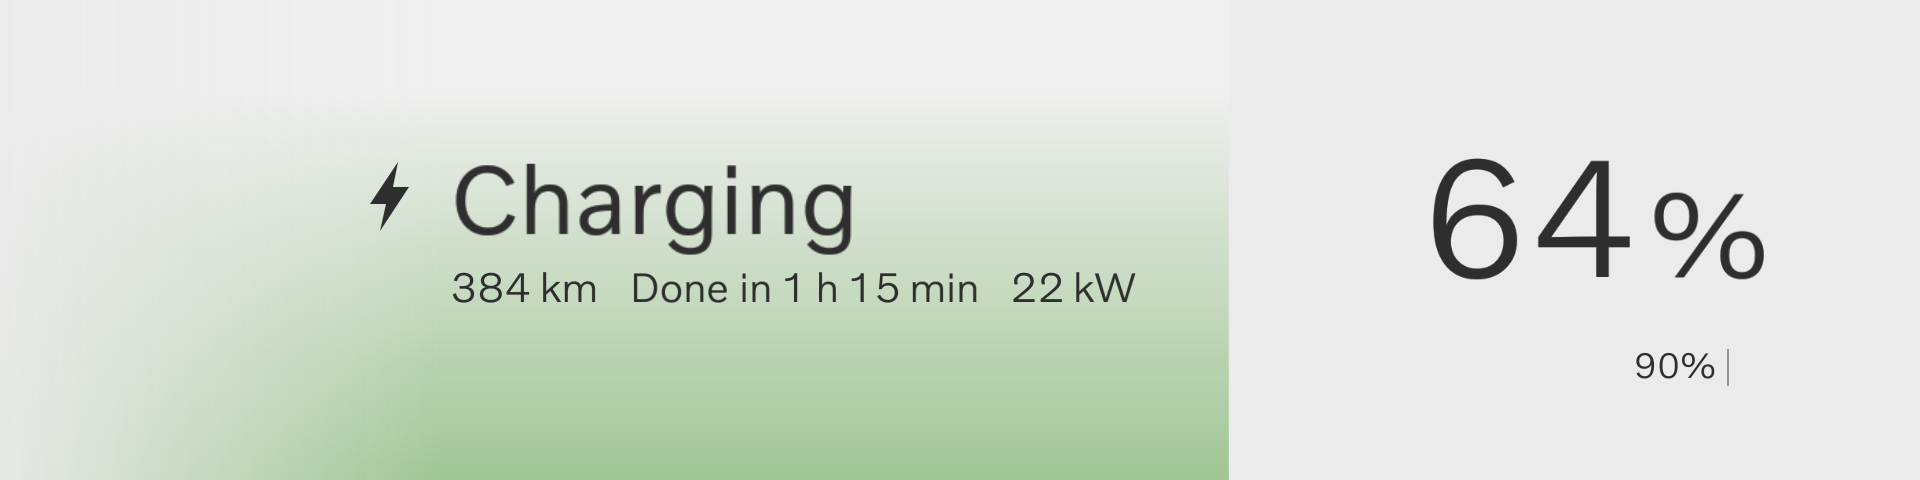
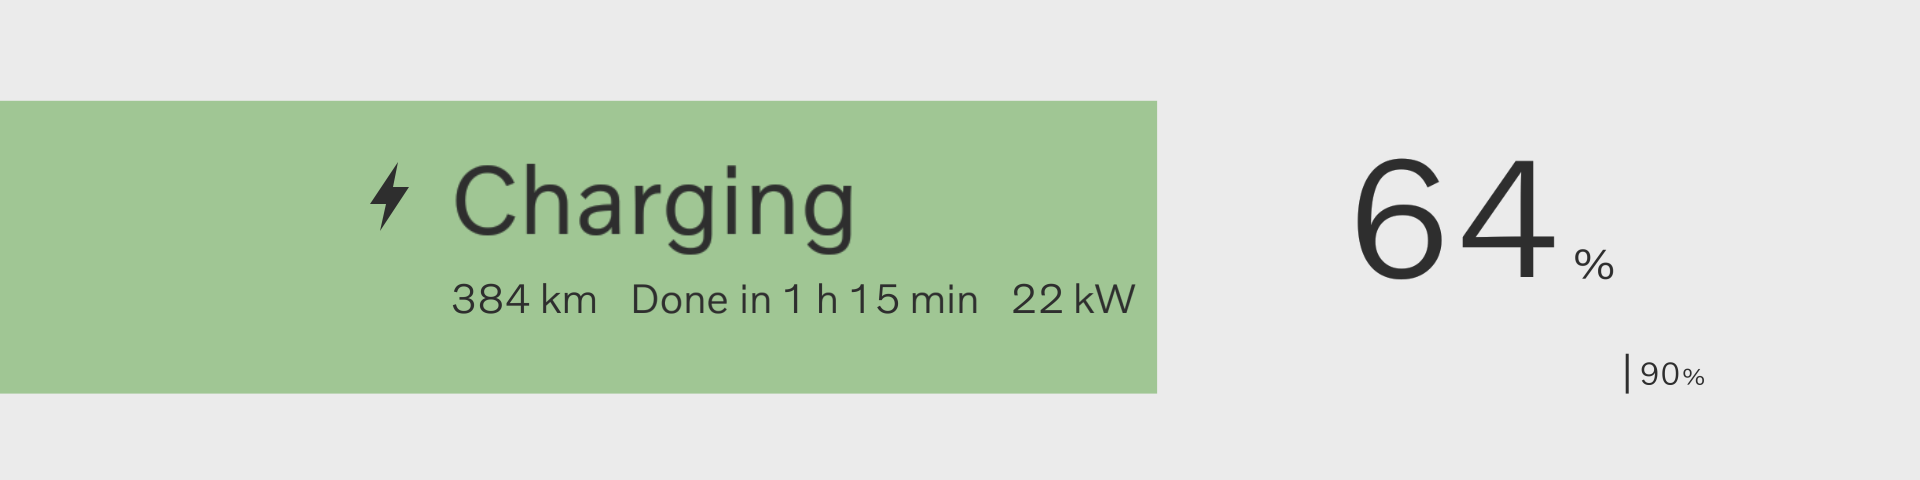
Match the EX90 charging bar proportions and align its limit marker

diff --git a/display/cluster.py b/display/cluster.py
@@ -8,6 +8,8 @@ import time
 import cairo
 
 WIDTH, HEIGHT = 1920, 448
+# Room beyond 100% for the charge-limit label. Both readings use this scale.
+CHARGE_TRACK_WIDTH = WIDTH - 112
 # Sampled from Volvo's light and dark EX30 Calm reference images.
 DAY = ("#f0f0f0", "#444444", "#969696", "#d6d6d6", "#c52631", "#22764c")
 NIGHT = ("#2f3744", "#ffffff", "#99a5b3", "#717986", "#ff545b", "#69d99b")
@@ -54,10 +56,8 @@ class Lettering:
         self.zero_ink = self.measure_ink("0", self.speed_row)
         _, digit_height, digit_bottom = self.zero_ink if self.speed_row == 0 else self.measure_ink("0", 0)
         _, sign_height, sign_bottom = self.measure_ink("%", 0)
-        # The EX30 strip's % is about 17 pixels tall beside 23-pixel digits.
-        # Measuring both outlines also accommodates the taller % in older car apps.
-        self.percent_scale = 0.72 * (digit_height / 216) / (sign_height / 128)
-        self.percent_offset = digit_bottom / 216 - self.percent_scale * sign_bottom / 128
+        self.digit_ink = (digit_height / 216, digit_bottom / 216)
+        self.percent_ink = (sign_height / 128, sign_bottom / 128)
 
     def measure_ink(self, label, block):
         index = LABELS.index(label)
@@ -77,7 +77,7 @@ class Lettering:
         baseline = 174 if index < 10 else 150
         return right - left, bottom - ink[0][0], bottom - baseline
 
-    def draw(self, ctx, text, x, y, size, weight, align, tracking=0):
+    def layout(self, text, size, weight):
         labels = (text,) if text in LABELS or text in CHARGING_LABELS else text
         glyphs = []
         for label in labels:
@@ -95,6 +95,12 @@ class Lettering:
             else:
                 return None
             glyphs.append((left, top, baseline, height, scale, advance))
+        return glyphs
+
+    def draw(self, ctx, text, x, y, size, weight, align, tracking=0):
+        glyphs = self.layout(text, size, weight)
+        if glyphs is None:
+            return None
         width = sum(g[-1] for g in glyphs) + tracking * (len(glyphs) - 1)
         ctx.save()
         ctx.translate(x - width * align, y)
@@ -110,6 +116,17 @@ class Lettering:
         return width
 
 
+def text_width(ctx, text, size, lettering=None, weight=0):
+    if lettering is not None:
+        glyphs = lettering.layout(text, size, weight)
+        if glyphs is not None:
+            return sum(g[-1] for g in glyphs)
+    ctx.select_font_face("sans-serif", cairo.FONT_SLANT_NORMAL,
+                         cairo.FONT_WEIGHT_BOLD if weight else cairo.FONT_WEIGHT_NORMAL)
+    ctx.set_font_size(size)
+    return ctx.text_extents(text)[4]
+
+
 def paint_text(ctx, text, x, y, size, color, lettering=None, weight=0, align=0):
     set_color(ctx, color)
     if lettering is not None:
@@ -117,10 +134,7 @@ def paint_text(ctx, text, x, y, size, color, lettering=None, weight=0, align=0):
         if width is not None:
             return width
     # Desktop previews, setup messages and words missing from an older car app.
-    ctx.select_font_face("sans-serif", cairo.FONT_SLANT_NORMAL,
-                         cairo.FONT_WEIGHT_BOLD if weight else cairo.FONT_WEIGHT_NORMAL)
-    ctx.set_font_size(size)
-    width = ctx.text_extents(text)[4]
+    width = text_width(ctx, text, size, weight=weight)
     ctx.move_to(x - width * align, y)
     ctx.show_text(text)
     return width
@@ -228,12 +242,24 @@ def battery_percent(fields):
     return None
 
 
-def paint_percent(ctx, percent, x, y, size, ink, suffix_ink, lettering, align=0):
-    advance = paint_text(ctx, whole(percent), x, y, size, ink, lettering, align=align)
-    sign_scale = lettering.percent_scale if lettering else 0.72
-    sign_offset = lettering.percent_offset if lettering else 0
-    paint_text(ctx, "%", x + advance * (1 - align) + size * (2 / 39),
-               y + size * sign_offset, size * sign_scale, suffix_ink, lettering)
+class PercentLabel:
+    """A number and a smaller percent sign aligned at the bottom of their ink."""
+    def __init__(self, ctx, value, size, lettering, sign_ratio=0.72):
+        self.text = whole(value)
+        self.size = size
+        self.lettering = lettering
+        digit_height, digit_bottom = lettering.digit_ink if lettering else (0.72, 0)
+        sign_height, sign_bottom = lettering.percent_ink if lettering else (0.72, 0)
+        self.sign_size = size * sign_ratio * digit_height / sign_height
+        self.sign_y = size * digit_bottom - self.sign_size * sign_bottom
+        self.sign_x = text_width(ctx, self.text, size, lettering) + size * (2 / 39)
+        self.width = self.sign_x + text_width(ctx, "%", self.sign_size, lettering)
+        self.baseline_from_center = size * (digit_height / 2 - digit_bottom)
+
+    def paint(self, ctx, x, y, ink, suffix_ink=None):
+        paint_text(ctx, self.text, x, y, self.size, ink, self.lettering)
+        paint_text(ctx, "%", x + self.sign_x, y + self.sign_y, self.sign_size,
+                   suffix_ink or ink, self.lettering)
 
 
 def is_charging(fields):
@@ -267,34 +293,37 @@ def charging_details(fields):
         yield (f"{kw:.1f}".removesuffix(".0") if kw < 10 else whole(kw), "kW")
 
 
-def paint_charging(ctx, fields, lettering, panel_height, dark):
+def paint_charging(ctx, fields, lettering, face_height, dark):
     _, ink, secondary, *_ = NIGHT if dark else DAY
     if not dark:
         ink = "#2e2e2e"
     percent = battery_percent(fields)
+    # In the EX90 illustration the bar runs from 21% to 82% of the instrument face.
+    bar_top = HEIGHT / 2 - 0.29 * face_height
+    bar_height = 0.61 * face_height
+    bar_bottom = bar_top + bar_height
     if percent is not None and percent > 0:
-        # The EX30 artwork fades from the screen colour to sage green at the charge front.
         green = (43, 126, 73) if dark else (159, 197, 147)
-        rgb = tuple(c / 255 for c in green)
         pulse = 0.92 + 0.08 * math.cos(time.monotonic() * math.tau / 4)
-        top = (HEIGHT - panel_height) / 2
-        gradient = cairo.LinearGradient(0, top, 0, top + panel_height)
-        if dark:
-            gradient.add_color_stop_rgba(0, *rgb, 0.22)
-        else:
-            gradient.add_color_stop_rgb(0.18, 240 / 255, 240 / 255, 240 / 255)
-        gradient.add_color_stop_rgba(1, *rgb, pulse)
-        width = WIDTH * percent / 100
-        fade = cairo.LinearGradient(0, 0, width * 0.36, 0)
-        fade.add_color_stop_rgba(0, 0, 0, 0, 0.05)
-        fade.add_color_stop_rgba(1, 0, 0, 0, 1)
-        ctx.save()
-        ctx.rectangle(0, top, width, panel_height)
-        ctx.clip()
-        ctx.set_source(gradient)
-        ctx.mask(fade)
-        ctx.restore()
+        ctx.set_source_rgba(*(c / 255 for c in green), pulse)
+        ctx.rectangle(0, bar_top, CHARGE_TRACK_WIDTH * percent / 100, bar_height)
+        ctx.fill()
 
+    target = number(fields, "charge_target_pct")
+    marker = CHARGE_TRACK_WIDTH * target / 100 if target is not None and 0 <= target <= 100 else None
+    anchor = marker if marker is not None else CHARGE_TRACK_WIDTH
+    # The EX90's large reading has a 21-pixel percent sign beside 85-pixel digits.
+    reading = PercentLabel(ctx, percent, 170, lettering, 0.25) if percent is not None else None
+    reading_width = reading.width if reading else text_width(ctx, "–", 122, lettering)
+    reading_x = anchor - 12 - reading_width
+    if reading_x < 0:
+        reading_x = anchor + 12
+    status_x = min(450, reading_x - 100 - text_width(ctx, "Charging", 99, lettering))
+    if status_x < 120:  # Move the status across when the bolt and heading won't fit comfortably.
+        status_x = max(450, reading_x + reading_width + 96)
+
+    ctx.save()
+    ctx.translate(status_x - 450, 0)
     set_color(ctx, ink)
     ctx.move_to(398, 146)
     for x, y in ((370, 188), (386, 188), (380, 215), (409, 171), (393, 171)):
@@ -305,22 +334,21 @@ def paint_charging(ctx, fields, lettering, panel_height, dark):
     x = 450
     for group in charging_details(fields):
         for token in group:
-            x += paint_text(ctx, token, x, 286, 42, ink, lettering) + 8
+            x += paint_text(ctx, token, x, 297, 42, ink, lettering) + 8
         x += 23
+    ctx.restore()
 
-    if percent is None:
-        paint_text(ctx, "–", 1600, 256, 122, secondary, lettering, align=0.5)
+    if reading:
+        reading.paint(ctx, reading_x, 261, ink)
     else:
-        paint_percent(ctx, percent, 1640, 261, 170, ink, ink, lettering, align=1)
-    target = number(fields, "charge_target_pct")
-    if target is not None and 0 <= target <= 100:
-        marker = max(4, min(WIDTH - 4, WIDTH * target / 100))
-        set_color(ctx, secondary)
-        ctx.rectangle(marker - 1, 333, 2, 37)
+        paint_text(ctx, "–", reading_x, 256, 122, secondary, lettering)
+    if marker is not None:
+        tick_height = 0.083 * face_height
+        set_color(ctx, ink)
+        ctx.rectangle(marker - 1.5, bar_bottom - tick_height, 3, tick_height)
         ctx.fill()
-        align = 1 if marker >= 125 else 0
-        paint_text(ctx, whole(target) + "%", marker + (12 if align == 0 else -12),
-                   362, 36, ink, lettering, align=align)
+        limit = PercentLabel(ctx, target, 32, lettering)
+        limit.paint(ctx, marker + 12, bar_bottom - tick_height / 2 + limit.baseline_from_center, ink)
 
 
 def paint_driving(ctx, fields, lettering, face_height, dark):
@@ -347,7 +375,7 @@ def paint_driving(ctx, fields, lettering, face_height, dark):
     percent = battery_percent(fields)
     if percent is not None:
         battery(ctx, reading_x + 4, 237, percent, ink)
-        paint_percent(ctx, percent, reading_x + 69, 263, 39, reading_ink, secondary, lettering)
+        PercentLabel(ctx, percent, 39, lettering).paint(ctx, reading_x + 69, 263, reading_ink, secondary)
 
     gear = fields.get("gear_selected")
     if gear in ("P", "R", "N", "D"):
@@ -375,11 +403,11 @@ def draw(ctx, width, height, fields, lettering=None, *, dark=False, message=""):
     ctx.save()
     ctx.translate((width - WIDTH * scale) / 2, (height - HEIGHT * scale) / 2)
     ctx.scale(scale, scale)
-    panel_height = height / scale
+    face_height = min(height / scale, WIDTH / 4)
     if charging:
-        paint_charging(ctx, fields, lettering, panel_height, dark)
+        paint_charging(ctx, fields, lettering, face_height, dark)
     else:
-        paint_driving(ctx, fields, lettering, min(panel_height, WIDTH / 4), dark)
+        paint_driving(ctx, fields, lettering, face_height, dark)
     if fields.get("parking_brake") is True:
         parking_brake(ctx, lettering, brake)
     if message:

diff --git a/display/tests/test_display.py b/display/tests/test_display.py
@@ -131,31 +131,72 @@ class InstrumentTests(unittest.TestCase):
                   "range_m_aaos": 160934.4, "distance_unit": "mi", "battery_power_mw": 7_200_000,
                   "charge_target_pct": 90, "charge_seconds_remaining": 4450}
         self.assertEqual(labels(fields), ["Charging", "100", "mi", "Done in", "1", "h", "15", "min",
-                                           "7.2", "kW", "64", "%", "90%"])
+                                           "7.2", "kW", "64", "%", "90", "%"])
         self.assertEqual(labels({"charging_active": True, "battery_power_mw": -1_000_000,
                                  "charge_target_pct": 150, "charge_seconds_remaining": 0}), ["Charging", "–"])
         self.assertEqual(list(cluster.charging_details({"charge_seconds_remaining": 3600})), [["Done in", "1", "h"]])
         self.assertEqual(list(cluster.charging_details({"charge_seconds_remaining": 1})), [["Done in", "1", "min"]])
 
-    def test_charging_gradient_fills_panel_height_to_battery_level(self):
-        fields = {"charging_active": True, "soc_aaos": 25, "usable_capacity_wh": 100, "charge_target_pct": 90}
-        width = 1920
-        for height in (480, 1080):
+    @patch("cluster.time.monotonic", lambda: 0)
+    def test_solid_charging_band_and_limit_use_one_scale(self):
+        for width, height in ((1920, 480), (1920, 448), (1280, 720)):
+            face = min(height, width / 4)
+            top = round(height / 2 - 0.29 * face)
+            bottom = round(height / 2 + 0.32 * face)
             for dark in (False, True):
-                with self.subTest(height=height, dark=dark):
-                    surface = cairo.ImageSurface(cairo.FORMAT_RGB24, width, height)
-                    cluster.draw(cairo.Context(surface), width, height, fields, dark=dark)
+                for charge, limit in ((64, 90), (90, 90), (75, 50), (100, 100)):
+                    with self.subTest(size=(width, height), dark=dark, charge=charge, limit=limit):
+                        fields = {"charging_active": True, "usable_capacity_wh": 100,
+                                  "soc_aaos": charge, "charge_target_pct": limit}
+                        surface = cairo.ImageSurface(cairo.FORMAT_RGB24, width, height)
+                        cluster.draw(cairo.Context(surface), width, height, fields, dark=dark)
+                        surface.flush()
+                        pixels = memoryview(surface.get_data()).cast("I")
+
+                        def pixel(x, y):
+                            return pixels[y * width + x] & 0xffffff
+
+                        bg = pixel(0, 0)
+                        green = 0x2b7e49 if dark else 0x9fc593
+                        end = int(1808 / 1920 * width * charge / 100)
+                        marker = int(1808 / 1920 * width * limit / 100)
+                        for y in (top + 2, bottom - 4):
+                            self.assertEqual(pixel(0, y), green)
+                            self.assertEqual(pixel(end - 5, y), green)
+                        self.assertEqual(pixel(end - 1, top + 2), green)
+                        self.assertEqual(pixel(end + 1, top + 2), bg)
+                        self.assertEqual(pixel(0, top - 2), bg)
+                        self.assertEqual(pixel(0, bottom + 1), bg)
+                        self.assertEqual(pixel(marker, bottom - 4), 0xffffff if dark else 0x2e2e2e)
+                        self.assertEqual(pixel(marker, bottom + 1), bg)
+
+    def test_charging_percent_and_limit_label_clear_the_marker(self):
+        for sign_height, descent in ((91, 2), (114, 14)):
+            face = cluster.Lettering(lettering_frame(sign_height, descent))
+            for limit in (50, 90, 100):
+                with self.subTest(sign_height=sign_height, limit=limit):
+                    fields = {"charging_active": True, "soc_aaos": 0, "usable_capacity_wh": 100,
+                              "charge_target_pct": limit}
+                    surface = cairo.ImageSurface(cairo.FORMAT_RGB24, 1920, 480)
+                    cluster.draw(cairo.Context(surface), 1920, 480, fields, face)
                     surface.flush()
                     pixels = memoryview(surface.get_data()).cast("I")
-                    bg = pixels[width - 1]
-                    edge = width // 4
-                    last_row = (height - 1) * width
-                    for row_start in (0, last_row):
-                        self.assertNotEqual(pixels[row_start + edge - 1], bg)
-                        self.assertEqual(pixels[row_start + edge], bg)
-                    self.assertNotEqual(pixels[edge - 1], pixels[last_row + edge - 1])
-                    marker_y = (height - cluster.HEIGHT) // 2 + 354
-                    self.assertNotEqual(pixels[marker_y * width + 1728], bg)
+                    marker = round(1808 * limit / 100)
+
+                    def ink(left, right, top, bottom):
+                        return [(x, y) for y in range(top, bottom) for x in range(left, right)
+                                if pixels[y * 1920 + x] & 255 < 128]
+
+                    digit = [y for _, y in ink(marker - 200, marker - 64, 130, 290)]
+                    sign = [y for _, y in ink(marker - 64, marker, 130, 290)]
+                    self.assertAlmostEqual((max(sign) - min(sign)) / (max(digit) - min(digit)), 0.25, delta=0.02)
+                    self.assertAlmostEqual(max(sign), max(digit), delta=1)
+                    self.assertFalse(ink(marker, marker + 80, 130, 290))
+                    self.assertFalse(ink(marker - 80, marker - 2, 350, 395))
+                    xs, ys = zip(*ink(marker + 3, min(1920, marker + 112), 350, 395))
+                    self.assertGreaterEqual(min(xs), marker + 10)
+                    self.assertLess(max(xs), 1919)
+                    self.assertAlmostEqual((min(ys) + max(ys)) / 2, 373.5, delta=2)
 
 
 class StreamTests(unittest.TestCase):

diff --git a/README.md b/README.md
@@ -38,13 +38,13 @@ A missing speed displays a dash. Each snapshot replaces all the previous reading
 
 ![Charging at 64 percent, with 384 km of range, 1 h 15 min remaining, 22 kW into the battery, and a 90 percent target](docs/charging-day.png)
 
-The EX90 puts the charging status and session details on the left, the current percentage on the right, and a marker at the selected target. On the Pi, the green gradient fills the panel from top to bottom. Its width follows the current charge and its brightness pulses while charging. The Pi uses the EX30’s relative “Done in” wording and shows the car’s estimate and target only when available. The kW figure is net power going into the battery. [Volvo’s EX90 instrument-panel illustration](https://www.volvocars.com/media/support-content/img2bd25bed8087ea7ac0a801f2015637bf_1_--_--_SVG.png) · [Kiosk in dark mode](docs/charging-night.png)
+The solid green bar spans 61% of the instrument face’s height, matching Volvo’s EX90 illustration. Its width shows the battery’s current charge. The limit marker uses the same scale, so the green edge meets the line when the battery reaches that limit. The large reading sits just before the marker, with a percent sign one quarter the height of the digits. It moves to the right if a limit near zero leaves too little room. The smaller limit label sits just beyond the line, as in Volvo’s EX30 illustration. [Volvo’s EX90 instrument-panel illustration](https://www.volvocars.com/media/support-content/img2bd25bed8087ea7ac0a801f2015637bf_1_--_--_SVG.png) · [Volvo’s EX30 charging illustration](https://www.volvocars.com/media/support-content/img1e5a015598b7302bc0a801f21f85e9f3_1_--_--_SVG.png) · [Kiosk in dark mode](docs/charging-night.png)
 
-The daylight colours and percent proportions come from the EX30 emulator’s built-in manual. Its `assets/default/user_manual.json` identifies car software `1.0` and content `23w38d`. The English charging article points to `img504ec2510898026ec0a801f21c4aa44d_1_--_--_SVG.svg` in `assets/default/documentAssetBundle.zip` inside `UserManual.apk`. That illustration has a sage-green gradient on light grey. Volvo’s 2025 Canadian guide and its U.S. guide updated May 25, 2026 point to the same dark illustration, which has a uniform green fill (`#2b7e49`) on charcoal (`#2f2f2f`). Volvo describes active charging as pulsating. The Pi uses the green on its existing navy night palette. [Volvo’s dark EX30 illustration](https://www.volvocars.com/media/support-content/img1e5a015598b7302bc0a801f21f85e9f3_1_--_--_SVG.png) · [2025 Canadian guide](https://www.volvocars.com/en-ca/support/car/ex30/2025/article/a3d4c324d33d417cc0a8cc37744d76ea-ec8b59f1d33539aec0a8cc374c819eab-77f3800cb793a946c0a8b05d49c187d2/) · [U.S. charging status guide](https://www.volvocars.com/us/support/car/ex30/article/a3d4c324d33d417cc0a8cc37744d76ea-ec8b59f1d33539aec0a8cc374c819eab-77f3800cb793a946c0a8b05d49c187d2/)
+The daylight colours come from the EX30 emulator’s built-in manual. Its `assets/default/user_manual.json` identifies car software `1.0` and content `23w38d`. The English charging article points to `img504ec2510898026ec0a801f21c4aa44d_1_--_--_SVG.svg` in `assets/default/documentAssetBundle.zip` inside `UserManual.apk`. That illustration has a sage-green gradient on light grey. Volvo’s 2025 Canadian guide and its U.S. guide updated May 25, 2026 point to the same dark illustration, which has a uniform green fill (`#2b7e49`) on charcoal (`#2f2f2f`). The kiosk uses that green on its navy night palette. The whole fill pulses together while charging. [2025 Canadian guide](https://www.volvocars.com/en-ca/support/car/ex30/2025/article/a3d4c324d33d417cc0a8cc37744d76ea-ec8b59f1d33539aec0a8cc374c819eab-77f3800cb793a946c0a8b05d49c187d2/) · [U.S. charging status guide](https://www.volvocars.com/us/support/car/ex30/article/a3d4c324d33d417cc0a8cc37744d76ea-ec8b59f1d33539aec0a8cc374c819eab-77f3800cb793a946c0a8b05d49c187d2/)
 
 The signed Android emulator image was built May 15, 2025. Its configured cluster APK labels itself “Fake Cluster Implementation” and displays Android’s sample instruments. The day and night gradient drawables in `XCSettings2_Gecko.apk` belong to the center-screen charging settings. The production EX30 top strip’s fill and animation on software 1.8 and 2.x remain unverified. [Android’s sample cluster service](https://source.android.com/docs/automotive/displays/cluster_api) · [Volvo’s software release dates](https://www.volvocars.com/uk/support/car/ex30/software-release-notes/)
 
-The car’s reported charging state takes precedence. On cars that omit it, the display requires Park, a connected plug and at least 100 W of net charging power. Known motion or a driving gear selects the driving view. A plugged-in car that reports idle, full or fault stays on the parked driving view with the plug indicator. [Charging signals and availability](ex30-companion-aaos/docs/properties.md)
+The Pi shows “Done in” using the car’s remaining-time estimate and shows the limit when the car reports one. The kW figure is net power going into the battery. The car’s reported charging state takes precedence. On cars that omit it, the display requires Park, a connected plug and at least 100 W of net charging power. Known motion or a driving gear selects the driving view. A plugged-in car that reports idle, full or fault stays on the parked driving view with the plug indicator. [Charging signals and availability](ex30-companion-aaos/docs/properties.md)
 
 ## Verification
 
